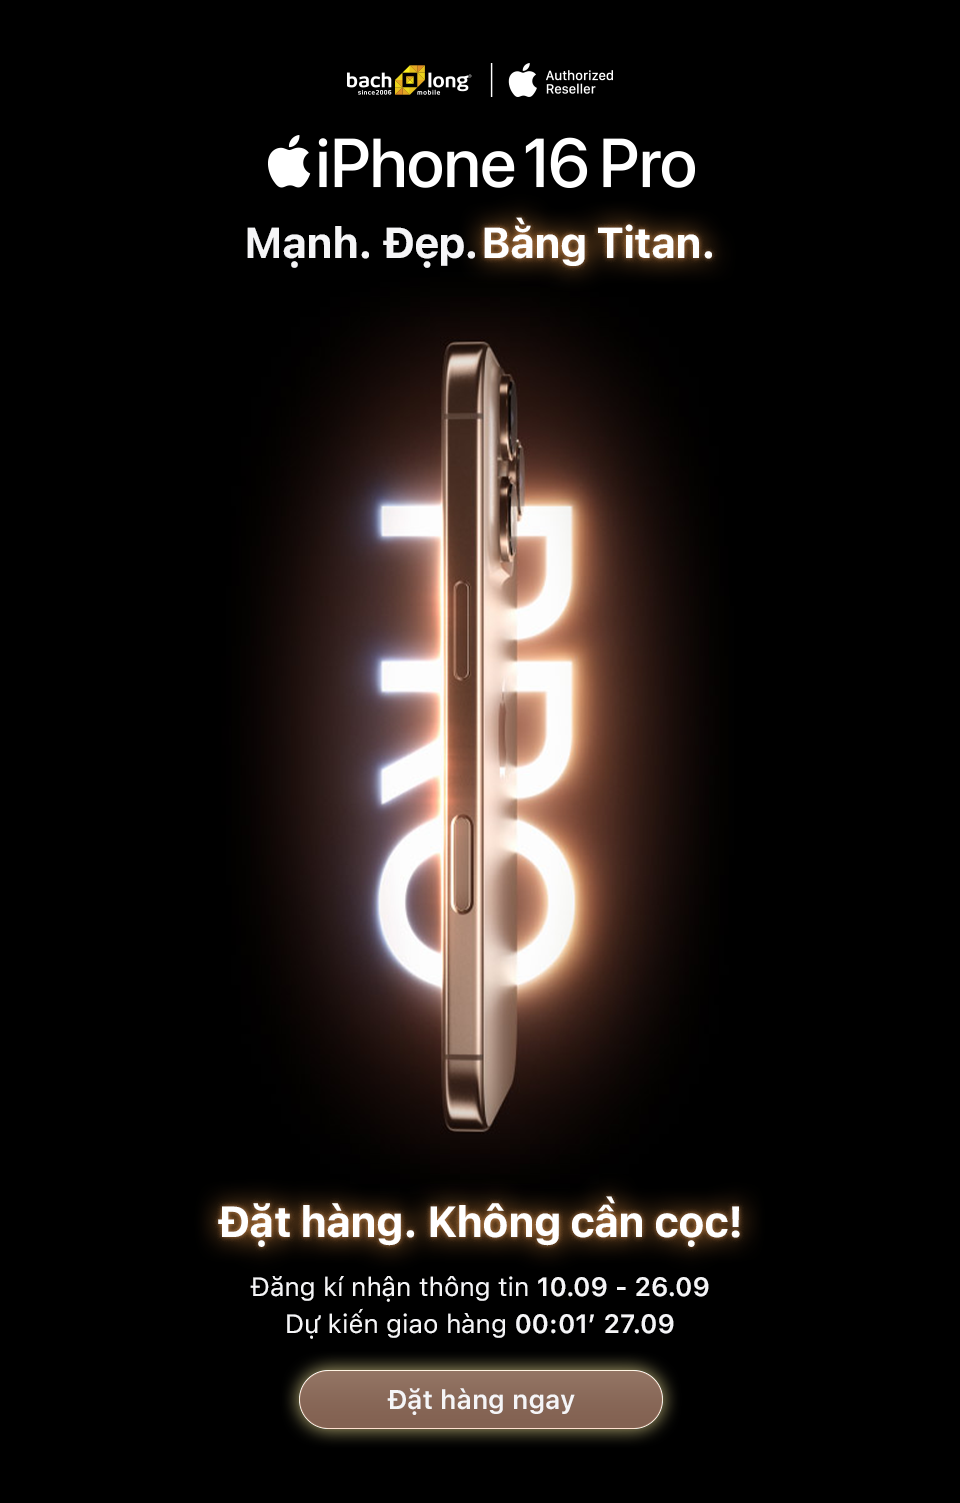
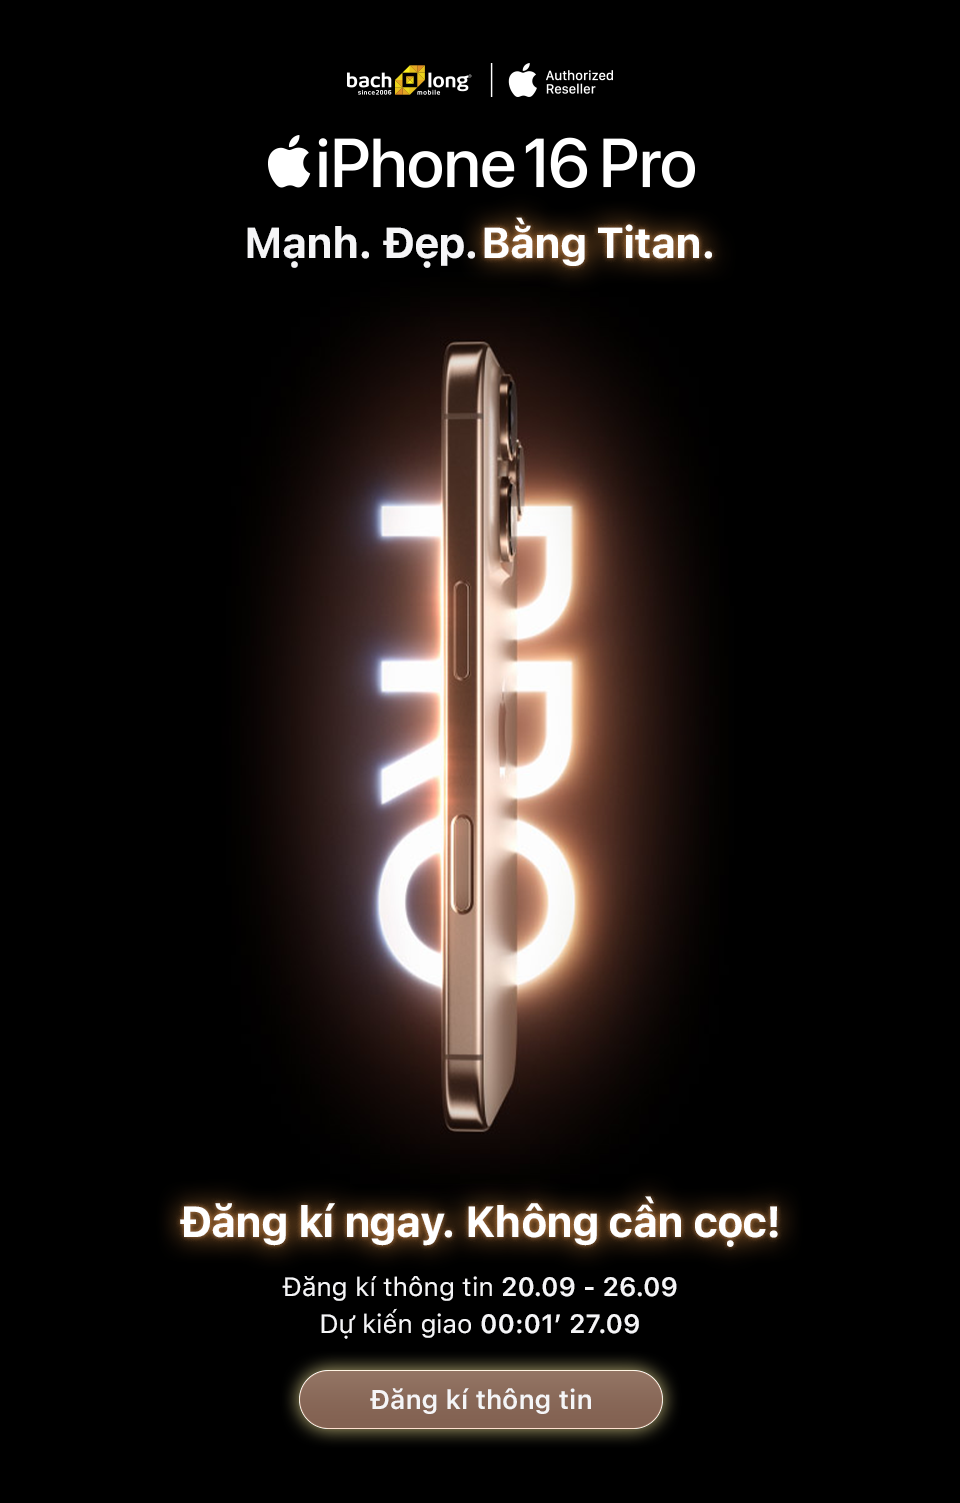
update

Changed region(s): [[0.1562, 0.7957, 0.8125, 0.8876], [0.375, 0.9182, 0.625, 0.9488]]

diff --git a/src/Component/PageIPhone16/FromInfo/form.main.tsx b/src/Component/PageIPhone16/FromInfo/form.main.tsx
@@ -1,6 +1,6 @@
 "use client";
 import React, { useState } from "react";
-import "@/style/styleform.css";
+import "../../../style/styleform.css";
 import {
   Box,
   Button,
@@ -12,18 +12,19 @@ import {
 } from "@mui/material";
 import Image from "next/image";
 import { Tooltip, Spin, Modal } from "antd";
-
-// interface Product {
-//   name:{
-//     name: string;
-//     installment: string;
-//     imageUrl: string;
-//     storageOptions: object;
-//     colorOptions: object;
-//   }
-
-// }
-// eslint-disable-next-line @typescript-eslint/no-explicit-any
+import whitePro from "../../../../public/Images/iphone/iphone16_WhitePro.png";
+import desert from "../../../../public/Images/iphone/iphone16_desert.png";
+import iPhone_16_Pro_White_Titanium from "../../../../public/Images/iPhone_16_Pro_White_Titanium.jpg";
+import iPhone_16_Pro_Natural_Titanium from "../../../../public/Images/iPhone_16_Pro_Natural_Titanium.jpg";
+import iPhone_16_Pro_Black_Titanium from "../../../../public/Images/iPhone_16_Pro_Black_Titanium.jpg";
+import deserttitaniumI from "../../../../public/Images/iPhone_16_Pro_Desert_TitaniumI.jpg";
+import iphone16_titan from "../../../../public/Images/iphone/iphone16_titan.png";
+import iphone16_BlackPro from "../../../../public/Images/iphone/iphone16_BlackPro.png";
+import iphone16_White from "../../../../public/Images/iphone/iphone16_White.png";
+import iphone16_Black from "../../../../public/Images/iphone/iphone16_Black.png";
+import iphone16_Pink from "../../../../public/Images/iphone/iphone16_Pink.png";
+import iphone16_blue from "../../../../public/Images/iphone/iphone16_blue.png";
+import iphone16_Green from "../../../../public/Images/iphone/iphone16_Green.png";
 const products: any = {
   "iPhone 16 Pro Max": {
     id: 1,
@@ -60,23 +61,23 @@ const products: any = {
       },
       "1TB": {
         Trắng: {
-          img: "/Images/iPhone_16_Pro_White_Titanium.jpg",
+          img: iPhone_16_Pro_White_Titanium,
           codeColor: "rgb(251, 247, 244)",
           price: 45990000,
         },
 
         "Sa mạc": {
-          img: "/Images/iPhone_16_Pro_Desert_TitaniumI.jpg",
+          img: deserttitaniumI,
           codeColor: "rgb(255, 218, 185)",
           price: 45690000,
         },
         "Màu tự nhiên": {
-          img: "/Images/iPhone_16_Pro_Natural_Titanium.jpg",
+          img: iPhone_16_Pro_Natural_Titanium,
           codeColor: "rgb(250, 235, 215)",
           price: 45990000,
         },
         Đen: {
-          img: "/Images/iPhone_16_Pro_Black_Titanium.jpg",
+          img: iPhone_16_Pro_Black_Titanium,
           codeColor: "rgb(60, 64, 66)",
           price: 45690000,
         },
@@ -84,19 +85,19 @@ const products: any = {
     },
     colorOptions: {
       Trắng: {
-        img: "/Images/iphone/iphone16_WhitePro.png",
+        img: whitePro,
         codeColor: "rgb(251, 247, 244)",
       },
       "Sa mạc": {
-        img: "/Images/iphone/iphone16_desert.png",
+        img: desert,
         codeColor: "rgb(255, 218, 185)",
       },
       "Màu tự nhiên": {
-        img: "/Images/iphone/iphone16_titan.png",
+        img: iphone16_titan,
         codeColor: "rgb(250, 235, 215)",
       },
       Đen: {
-        img: "/Images/iphone/iphone16_BlackPro.png",
+        img: iphone16_BlackPro,
         codeColor: "rgb(60, 64, 66)",
       },
     },
@@ -166,19 +167,19 @@ const products: any = {
     },
     colorOptions: {
       Trắng: {
-        img: "/Images/iphone/iphone16_WhitePro.png",
+        img: whitePro,
         codeColor: "rgb(251, 247, 244)",
       },
       "Sa mạc": {
-        img: "/Images/iphone/iphone16_desert.png",
+        img: desert,
         codeColor: "rgb(255, 218, 185)",
       },
       "Màu tự nhiên": {
-        img: "/Images/iphone/iphone16_titan.png",
+        img: iphone16_titan,
         codeColor: "rgb(250, 235, 215)",
       },
       Đen: {
-        img: "/Images/iphone/iphone16_BlackPro.png",
+        img: iphone16_BlackPro,
         codeColor: "rgb(60, 64, 66)",
       },
     },
@@ -242,23 +243,23 @@ const products: any = {
     },
     colorOptions: {
       Trắng: {
-        img: "/Images/iphone/iphone16_White.png",
+        img: iphone16_White,
         codeColor: "rgb(251, 247, 244)",
       },
       Đen: {
-        img: "/Images/iphone/iphone16_Black.png",
+        img: iphone16_Black,
         codeColor: "rgb(60, 64, 66)",
       },
       Hồng: {
-        img: "/Images/iphone/iphone16_Pink.png",
+        img: iphone16_Pink,
         codeColor: "rgb(255, 110, 180)",
       },
       "Xanh lưu ly": {
-        img: "/Images/iphone/iphone16_blue.png",
+        img: iphone16_blue,
         codeColor: "rgb(72, 118, 255)",
       },
       "Xanh mồng két": {
-        img: "/Images/iphone/iphone16_Green.png",
+        img: iphone16_Green,
         codeColor: "rgb(176, 212, 210)",
       },
     },
@@ -322,23 +323,23 @@ const products: any = {
     },
     colorOptions: {
       Trắng: {
-        img: "/Images/iphone/iphone16_White.png",
+        img: iphone16_White,
         codeColor: "rgb(251, 247, 244)",
       },
       Đen: {
-        img: "/Images/iphone/iphone16_Black.png",
+        img: iphone16_Black,
         codeColor: "rgb(60, 64, 66)",
       },
       Hồng: {
-        img: "/Images/iphone/iphone16_Pink.png",
+        img: iphone16_Pink,
         codeColor: "rgb(255, 110, 180)",
       },
       "Xanh lưu ly": {
-        img: "/Images/iphone/iphone16_blue.png",
+        img: iphone16_blue,
         codeColor: "rgb(72, 118, 255)",
       },
       "Xanh mồng két": {
-        img: "/Images/iphone/iphone16_Green.png",
+        img: iphone16_Green,
         codeColor: "rgb(176, 212, 210)",
       },
     },
@@ -705,7 +706,7 @@ export default function FormMain() {
                   textAlign: "center",
                 }}
               >
-                Đăng ký đặt iPhone 16 Series
+                Đăng ký iPhone 16 Series
               </h2>
               <form onSubmit={handleSubmit}>
                 <ul className="form-list">
@@ -773,7 +774,7 @@ export default function FormMain() {
                     </div>
                   </li>
                 </ul>
-                <button type="submit">Đặt hàng</button>
+                <button type="submit">Đăng ký</button>
               </form>
             </div>
           </div>
@@ -969,7 +970,7 @@ export default function FormMain() {
                 textAlign: "center",
               }}
             >
-              Đăng ký đặt iPhone 16 Series
+              Đăng ký iPhone 16 Series
             </h2>
             <form onSubmit={handleSubmit}>
               <ul className="form-list">
@@ -1044,7 +1045,7 @@ export default function FormMain() {
                 }}
                 type="submit"
               >
-                Đặt hàng
+                Đăng ký
               </button>
             </form>
           </div>

diff --git a/src/Component/PageIPhone16/PriceList/PriceList.tsx b/src/Component/PageIPhone16/PriceList/PriceList.tsx
@@ -8,12 +8,12 @@ import iphone12 from "../../../assets/images/iphone_12.png";
 import iphone11Pro from "../../../assets/images/iphone_11Pro.png";
 import iphone11 from "../../../assets/images/iphone_11.png";
 import iphoneX from "../../../assets/images/iphone_XS.png";
-import styles from "@/style/PriceList.module.css";
+import styles from "../../../style/PriceList.module.css";
 import Image from "next/image";
-import newChangeImageMb from "@/assets/images/THU CU LEN DOI.png";
+import newChangeImageMb from "../../../assets/images/THU CU LEN DOI.png";
 import comboPhuKienPC from "../../../assets/images/combo_phu_kien_PC.png";
 import comboPhuKienMb from "../../../assets/images/combo_phu_kien_MB.png";
-import newChangeImage from "@/assets/images/THU CU LEN DOI.png";
+import newChangeImage from "../../../assets/images/THU CU LEN DOI.png";
 const products = [
   {
     productName: "iPhone 15 Pro Max",

diff --git a/src/Component/PageIPhone16/Section3/Section3.tsx b/src/Component/PageIPhone16/Section3/Section3.tsx
@@ -3,7 +3,7 @@ import React, { useState } from "react";
 import Image from "next/image";
 import ImagesInfoIP16 from "../../../assets/images/imagesInfoIp16.png";
 import InfoIP16Plus from "../../../assets/images/info-iphone-16-16-plus.png";
-import style from "@/style/Section3.module.css";
+import style from "../../../style/Section3.module.css";
 
 function Section3() {
   const [activeButton, setActiveButton] = useState<number>(1);

diff --git a/src/Component/PageIPhone16/InfoTechnical/InfoTechnical.tsx b/src/Component/PageIPhone16/InfoTechnical/InfoTechnical.tsx
@@ -1,5 +1,5 @@
 import React from "react";
-import style from "@/style/InfoTechnical.module.css";
+import style from "../../../style/InfoTechnical.module.css";
 import InfoTechnicalComponent from "../../../Component/InfoTechnicalComponent/InfoTechnicalComponent";
 import iphone16Green from "../../../assets/images/iphone16_Green.png";
 import iphone16Black from "../../../assets/images/iphone16_Black.png";

diff --git a/src/Component/InfoTechnicalComponent/InfoTechnicalComponent.tsx b/src/Component/InfoTechnicalComponent/InfoTechnicalComponent.tsx
@@ -79,7 +79,7 @@ export default function InfoTechnicalComponent({
             className={style.groupButtonMobile}
           >
             <button type="submit" className={style.button_buy}>
-              Đặt hàng
+              Đăng ký
             </button>
           </a>
         </div>

diff --git a/src/Component/CardProductIP16/CardProductIP16.tsx b/src/Component/CardProductIP16/CardProductIP16.tsx
@@ -50,7 +50,7 @@ function CardProductIP16({
           </div>
           <button type="submit" className={style.button_buy}>
             <a href={link} style={{ color: "#fff" }}>
-              Đặt hàng
+              Đăng ký
             </a>
           </button>
         </div>

diff --git a/src/Component/count/visted.count.main.tsx b/src/Component/count/visted.count.main.tsx
@@ -97,7 +97,7 @@ function Visitors() {
             onEnd={onComplete}
             onStart={onStart}
           />
-          <span> khách đã đặt hàng</span>
+          <span> khách hàng đã đăng ký</span>
         </Grid>
         {/* <Grid
           xs={12}
